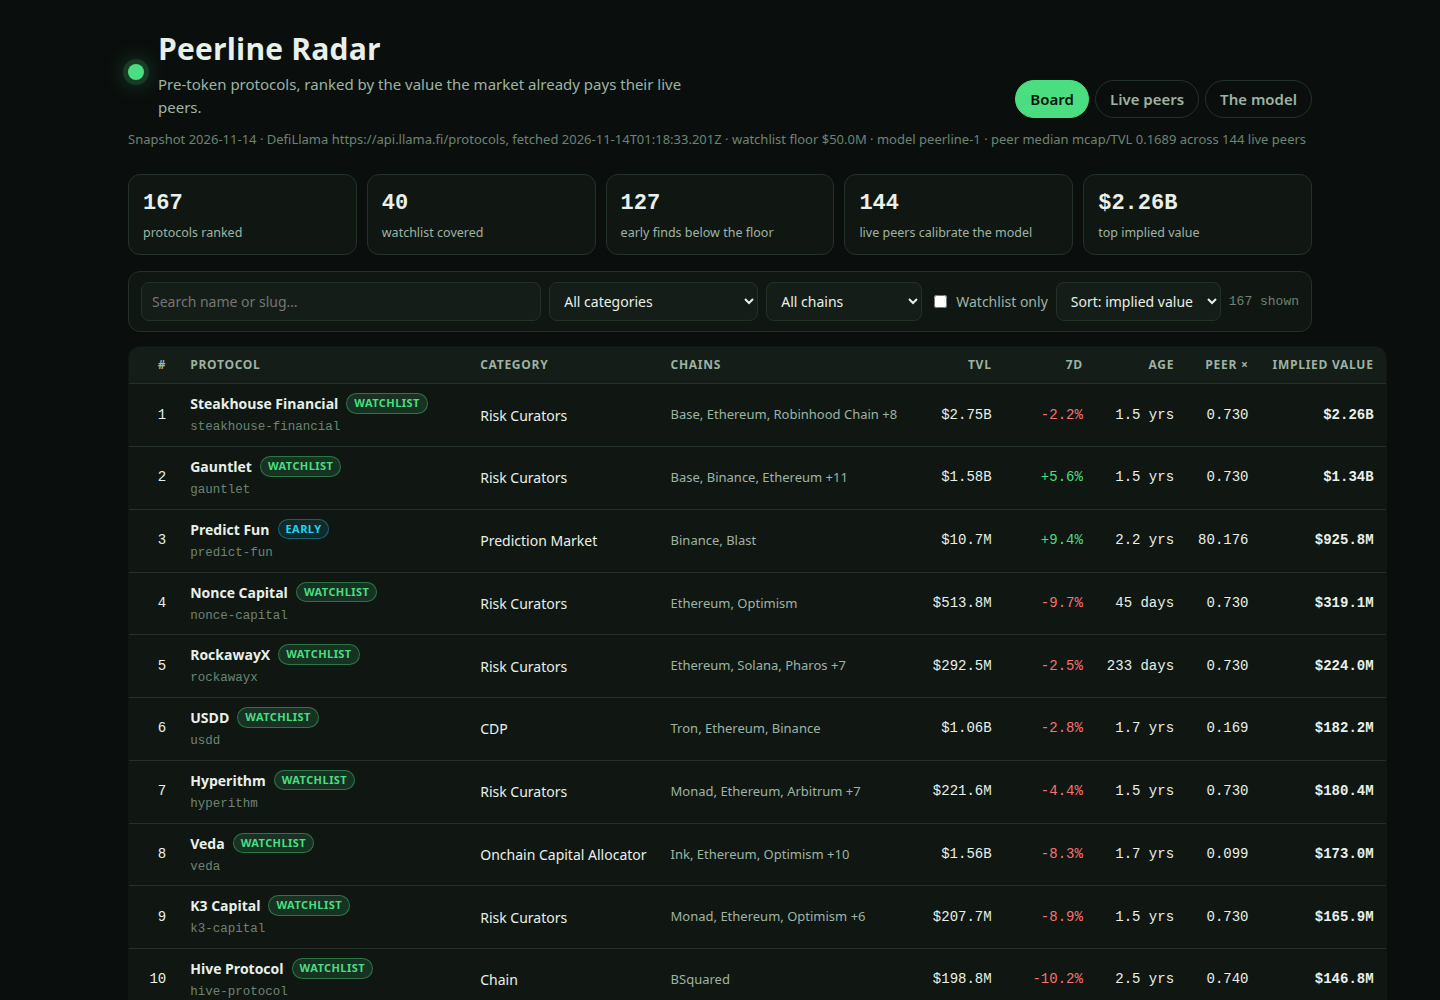
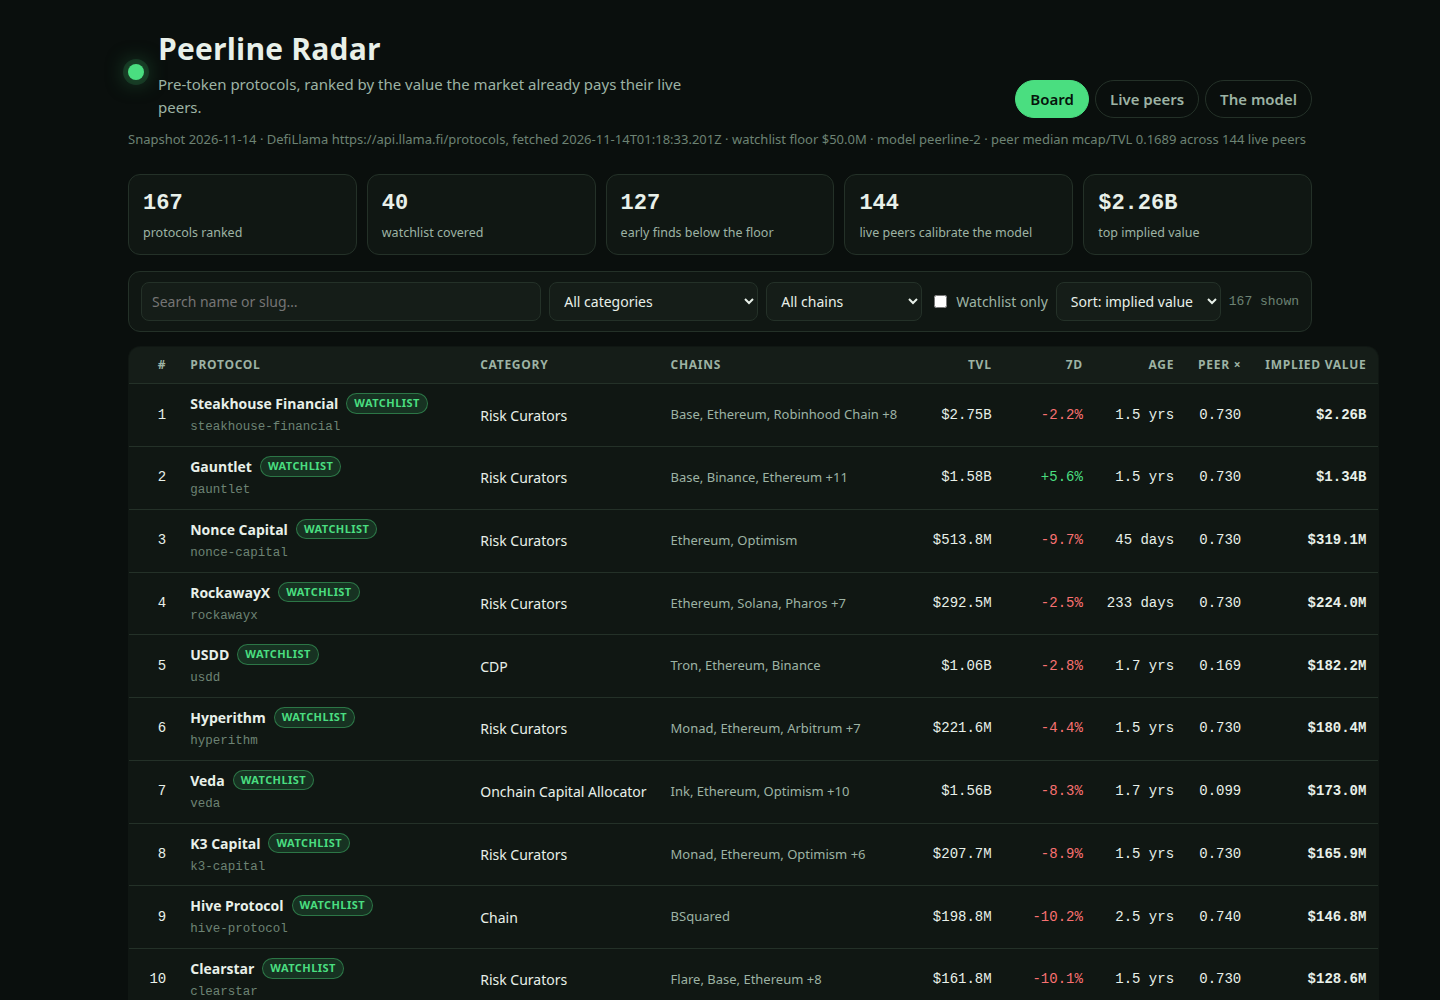
pass 2: winsorised calibration, multiple band, output self-check
Peer ratios are winsorised at 5 before any median and the shrunk multiple
is held in a 0.02..3 band: pass 1 priced Predict Fun at 80x TVL (26M on
0.6M TVL) off a thin prediction-market peer set; it now sits at 1.135x
(3.1M, rank 55) and no board multiple exceeds 1.1351. Model version
peerline-2. main.ts now re-reads its written board.json and refuses a run
whose ranks or ordering are wrong, and checks the dossier size cap.
Dashboard states the guards and fixes the peer-count wording.
Determinism: two runs, all 9 output files byte-identical.

diff --git a/lib/model.ts b/lib/model.ts
@@ -8,10 +8,14 @@
 // calibration on any snapshot it is handed.
 //
 //   peers       = the snapshot's live-token protocols (a market cap is recorded)
-//   ratio(p)    = mcap_usd / tvl_usd for a peer with tvl_usd > 0
+//   ratio(p)    = mcap_usd / tvl_usd for a peer with tvl_usd > 0, winsorised at RATIO_CAP:
+//                 a thin-TVL peer trading at 80x its custody is a fact about that peer, not a
+//                 price for a whole category, so no single ratio enters a median above the cap
 //   G           = the median ratio across all peers
 //   C(c), n(c)  = the median ratio and the headcount of the peers in category c
-//   multiple(c) = (n(c) * C(c) + 4 * G) / (n(c) + 4)     (shrinkage toward the market median)
+//   multiple(c) = clamp((n(c) * C(c) + 4 * G) / (n(c) + 4), 0.02, 3)
+//                 (shrinkage toward the market median, then a published band: a launch priced
+//                 above 3x the value a protocol custodies is a claim this board will not make)
 //   momentum    = 1 + 0.4 * clamp(change_7d, -50, 100) / 100
 //   seasoning   = 0.85 + 0.30 * min(age_days, 1460) / 1460
 //   breadth     = 1 + 0.03 * min(chains - 1, 6)
@@ -53,6 +57,9 @@ export interface Snapshot {
 /** The model's fixed weights. The multiples are NOT here: they are calibrated per run. */
 export interface ModelConstants {
   shrink_peers: number;
+  ratio_cap: number;
+  multiple_floor: number;
+  multiple_cap: number;
   momentum_weight: number;
   momentum_floor_pct: number;
   momentum_cap_pct: number;
@@ -65,6 +72,9 @@ export interface ModelConstants {
 
 export const MODEL: ModelConstants = {
   shrink_peers: 4,
+  ratio_cap: 5,
+  multiple_floor: 0.02,
+  multiple_cap: 3,
   momentum_weight: 0.4,
   momentum_floor_pct: -50,
   momentum_cap_pct: 100,
@@ -76,7 +86,7 @@ export const MODEL: ModelConstants = {
 };
 
 /** The model's version label: the dashboard names it and the dossier quotes it. */
-export const MODEL_VERSION = 'peerline-1';
+export const MODEL_VERSION = 'peerline-2';
 
 /** Early rows: rankable pre-token protocols below the floor are carried down to this TVL. */
 export const EARLY_MIN_TVL_USD = 10_000_000;
@@ -206,23 +216,25 @@ export function isRankable(p: SnapshotProtocol): boolean {
  */
 export function calibrate(snapshot: Snapshot, model: ModelConstants = MODEL): Calibration {
   const peers = snapshot.protocols.filter((p) => p.mcap_usd !== null && p.tvl_usd > 0);
-  const ratios = peers.map((p) => p.mcap_usd! / p.tvl_usd);
+  const ratioOf = (p: SnapshotProtocol): number => Math.min(p.mcap_usd! / p.tvl_usd, model.ratio_cap);
+  const ratios = peers.map(ratioOf);
   const globalMedian = ratios.length > 0 ? median(ratios) : 0;
   const byCategory = new Map<string, number[]>();
   for (const p of peers) {
     const key = p.category ?? 'Uncategorized';
     const list = byCategory.get(key);
-    if (list === undefined) byCategory.set(key, [p.mcap_usd! / p.tvl_usd]);
-    else list.push(p.mcap_usd! / p.tvl_usd);
+    if (list === undefined) byCategory.set(key, [ratioOf(p)]);
+    else list.push(ratioOf(p));
   }
   const categories: CategoryCalibration[] = [...byCategory.entries()]
     .map(([category, list]) => {
       const med = median(list);
+      const shrunk = (list.length * med + model.shrink_peers * globalMedian) / (list.length + model.shrink_peers);
       return {
         category,
         peers: list.length,
         median_ratio: round4(med),
-        multiple: round4((list.length * med + model.shrink_peers * globalMedian) / (list.length + model.shrink_peers)),
+        multiple: round4(Math.min(model.multiple_cap, Math.max(model.multiple_floor, shrunk))),
       };
     })
     .sort((a, b) => bySlugOrder(a.category, b.category));
@@ -241,7 +253,10 @@ export function calibrate(snapshot: Snapshot, model: ModelConstants = MODEL): Ca
 /** The shrunk peer multiple for one category, from a finished calibration. */
 function multipleFor(cal: Calibration, category: string | null, model: ModelConstants): { multiple: number; peers: number } {
   const hit = cal.categories.find((c) => c.category === (category ?? 'Uncategorized'));
-  if (hit === undefined) return { multiple: cal.global_median_ratio, peers: 0 };
+  if (hit === undefined) {
+    const fallback = Math.min(model.multiple_cap, Math.max(model.multiple_floor, cal.global_median_ratio));
+    return { multiple: round4(fallback), peers: 0 };
+  }
   return { multiple: hit.multiple, peers: hit.peers };
 }
 

diff --git a/dashboard/app.js b/dashboard/app.js
@@ -157,7 +157,7 @@
       '<div class="grid">' +
       '<div class="card"><h3>Implied value</h3><div class="big">' + money(r.implied_value_usd) + '</div>' +
       '<p class="note">TVL ' + money(r.tvl_usd) + ' \u00d7 the multipliers below</p></div>' +
-      multCard('Peer multiple', m.peer_multiple, 'Median mcap/TVL of ' + m.category_peers + ' live ' + esc(r.category || 'Uncategorized') + ' peers, shrunk toward the market median', m.peer_multiple / 1.5) +
+      multCard('Peer multiple', m.peer_multiple, 'Median mcap/TVL of ' + m.category_peers + ' live ' + esc(r.category || 'Uncategorized') + (m.category_peers === 1 ? ' peer' : ' peers') + ', winsorised, shrunk toward the market median and held inside the 0.02\u20133 band', m.peer_multiple / 3) +
       multCard('Momentum', m.momentum_multiplier, 'Seven-day TVL change of ' + (r.change_7d == null ? 'none recorded' : r.change_7d.toFixed(1) + '%') + ', damped and clamped', (m.momentum_multiplier - 0.8) / 0.6) +
       multCard('Seasoning', m.seasoning_multiplier, 'Running ' + ageLabel(r.age_days) + ' with no token (listed ' + esc(r.listed_at || 'date not recorded') + ')', (m.seasoning_multiplier - 0.85) / 0.3) +
       multCard('Breadth', m.breadth_multiplier, r.chains.length + ' chain' + (r.chains.length === 1 ? '' : 's') + ' of distribution', (m.breadth_multiplier - 1) / 0.18) +
@@ -202,7 +202,10 @@
       '<p><strong>Peer multiple.</strong> A lending market and a DEX do not trade at the same share of the value they ' +
       'custody, so there is no single constant: each category\u2019s multiple is the median mcap/TVL of its own live ' +
       'peers, shrunk toward the global median (' + R.calibration.global_median_ratio + ') so a three-peer category ' +
-      'cannot swing the board.</p>' +
+      'cannot swing the board. Two guards keep the calibration honest: each peer\u2019s ratio is winsorised at ' +
+      R.model.ratio_cap + ' before any median is taken, and the multiple used is held inside the ' +
+      R.model.multiple_floor + '\u2013' + R.model.multiple_cap + ' band \u2014 a launch priced above three times the value a ' +
+      'protocol custodies is a claim this board will not make.</p>' +
       '<p><strong>Momentum</strong> is damped: one week of TVL change moves value by at most +40% or \u221220%. ' +
       '<strong>Seasoning</strong> pays up to +15% for four years run without a token \u2014 time served is usage a launch ' +
       'would capitalise. <strong>Breadth</strong> pays 3% per extra chain, capped at six.</p>' +

diff --git a/main.ts b/main.ts
@@ -80,7 +80,18 @@ for (const name of shots) {
 }
 
 // The dossier goes last: the scorer rebuilds it from this very /output and compares bytes.
-writeFileSync(join(out, 'dossier.json'), buildDossier(out, DOSSIER_CAPS));
+const dossier = buildDossier(out, DOSSIER_CAPS);
+if (dossier.length > 1_572_864) fail(`dossier.json would be ${dossier.length} bytes, over the 1.5 MiB cap`, 1);
+writeFileSync(join(out, 'dossier.json'), dossier);
+
+// Post-write self-check: re-read the board as the gate will, and refuse a run whose own output
+// does not parse, rank 1..N, or descend by value. Cheap insurance inside the grader's sandbox.
+const written = JSON.parse(readFileSync(join(out, 'board.json'), 'utf8')) as { rows: { rank: number; implied_value_usd: number }[] };
+if (!Array.isArray(written.rows) || written.rows.length !== board.length) fail('the written board.json does not hold the board', 1);
+for (let i = 0; i < written.rows.length; i++) {
+  if (written.rows[i]!.rank !== i + 1) fail(`the written board.json has rank ${written.rows[i]!.rank} at position ${i + 1}`, 1);
+  if (i > 0 && written.rows[i]!.implied_value_usd > written.rows[i - 1]!.implied_value_usd) fail('the written board.json rises in value as rank ascends', 1);
+}
 
 process.stdout.write(
   `peerline radar: ${snapshot.protocols.length} protocols, ${snapshot.watchlist.length} on the watchlist, ${board.length} rows scored ` +
